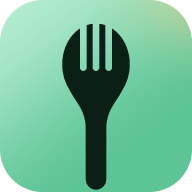
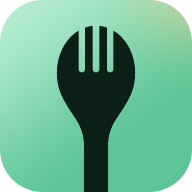
Centre the spork head and run the handle off the bottom edge
Matches the supplied reference properly: the head is the subject and sits centred and
larger, and the handle runs off the bottom of the frame instead of stopping inside it
with a visible rounded tip.

HANDLE_BOT is 1.07, past the edge of the unit square, on purpose. The plate clips the
mark, so the handle is cut off square exactly as the reference does it rather than
needing a separate cut shape.

The maskable icon therefore differs, and should: its mark is scaled to 0.74 for the
safe zone, so the handle tip is visible inside the frame. Android crops maskable icons
to a circle, and a handle bleeding to the edge there would be sliced mid-shaft.
apple-touch-icon keeps the bleed, since iOS lays its own mask over a full square.

Colours untouched -- mint plate, deep ink mark, as before.

smoke clean, deploy 4/4, favicon handle confirmed clipped by the viewBox rather than
drawn past it.

Changed region(s): [[0.2812, 0.1875, 0.7188, 1.0], [0.375, 0.125, 0.625, 0.375]]

diff --git a/tools/make-icons.py b/tools/make-icons.py
@@ -72,20 +72,24 @@ def smin(a, b, k):
 # top to make the tines. Built from a handful of exact primitives rather than a
 # tapered cone, because a smooth union of a disc and a capsule gives the same
 # silhouette for a fraction of the sampling cost.
-HEAD_C = (0.5, 0.335)
-HEAD_RX = 0.176          # taller than wide, so the head reads as a bowl not a ball
-HEAD_RY = 0.212
+#
+# The head is the subject and sits centred; the handle runs off the bottom edge
+# rather than stopping inside the frame. HANDLE_BOT is past 1.0 on purpose — the
+# plate clips it, so the handle is cut off square instead of showing a rounded tip.
+HEAD_C = (0.5, 0.380)
+HEAD_RX = 0.204          # taller than wide, so the head reads as a bowl not a ball
+HEAD_RY = 0.246
 
-HANDLE_TOP = (0.5, 0.520)
-HANDLE_BOT = (0.5, 0.935)
-HANDLE_R = 0.053
+HANDLE_TOP = (0.5, 0.585)
+HANDLE_BOT = (0.5, 1.070)   # deliberately off the bottom of the square
+HANDLE_R = 0.062
 
-WAIST_K = 0.115          # how softly the head flows into the handle
+WAIST_K = 0.125          # how softly the head flows into the handle
 
-TINE_XS = (-0.066, 0.0, 0.066)   # three slots, so four tines
-TINE_TOP = 0.070         # above the head, so the slots open outward
-TINE_BOT = 0.352
-TINE_R = 0.0175
+TINE_XS = (-0.074, 0.0, 0.074)   # three slots, so four tines
+TINE_TOP = 0.060         # above the head, so the slots open outward
+TINE_BOT = 0.360
+TINE_R = 0.017
 
 
 def sd_body(x, y):
